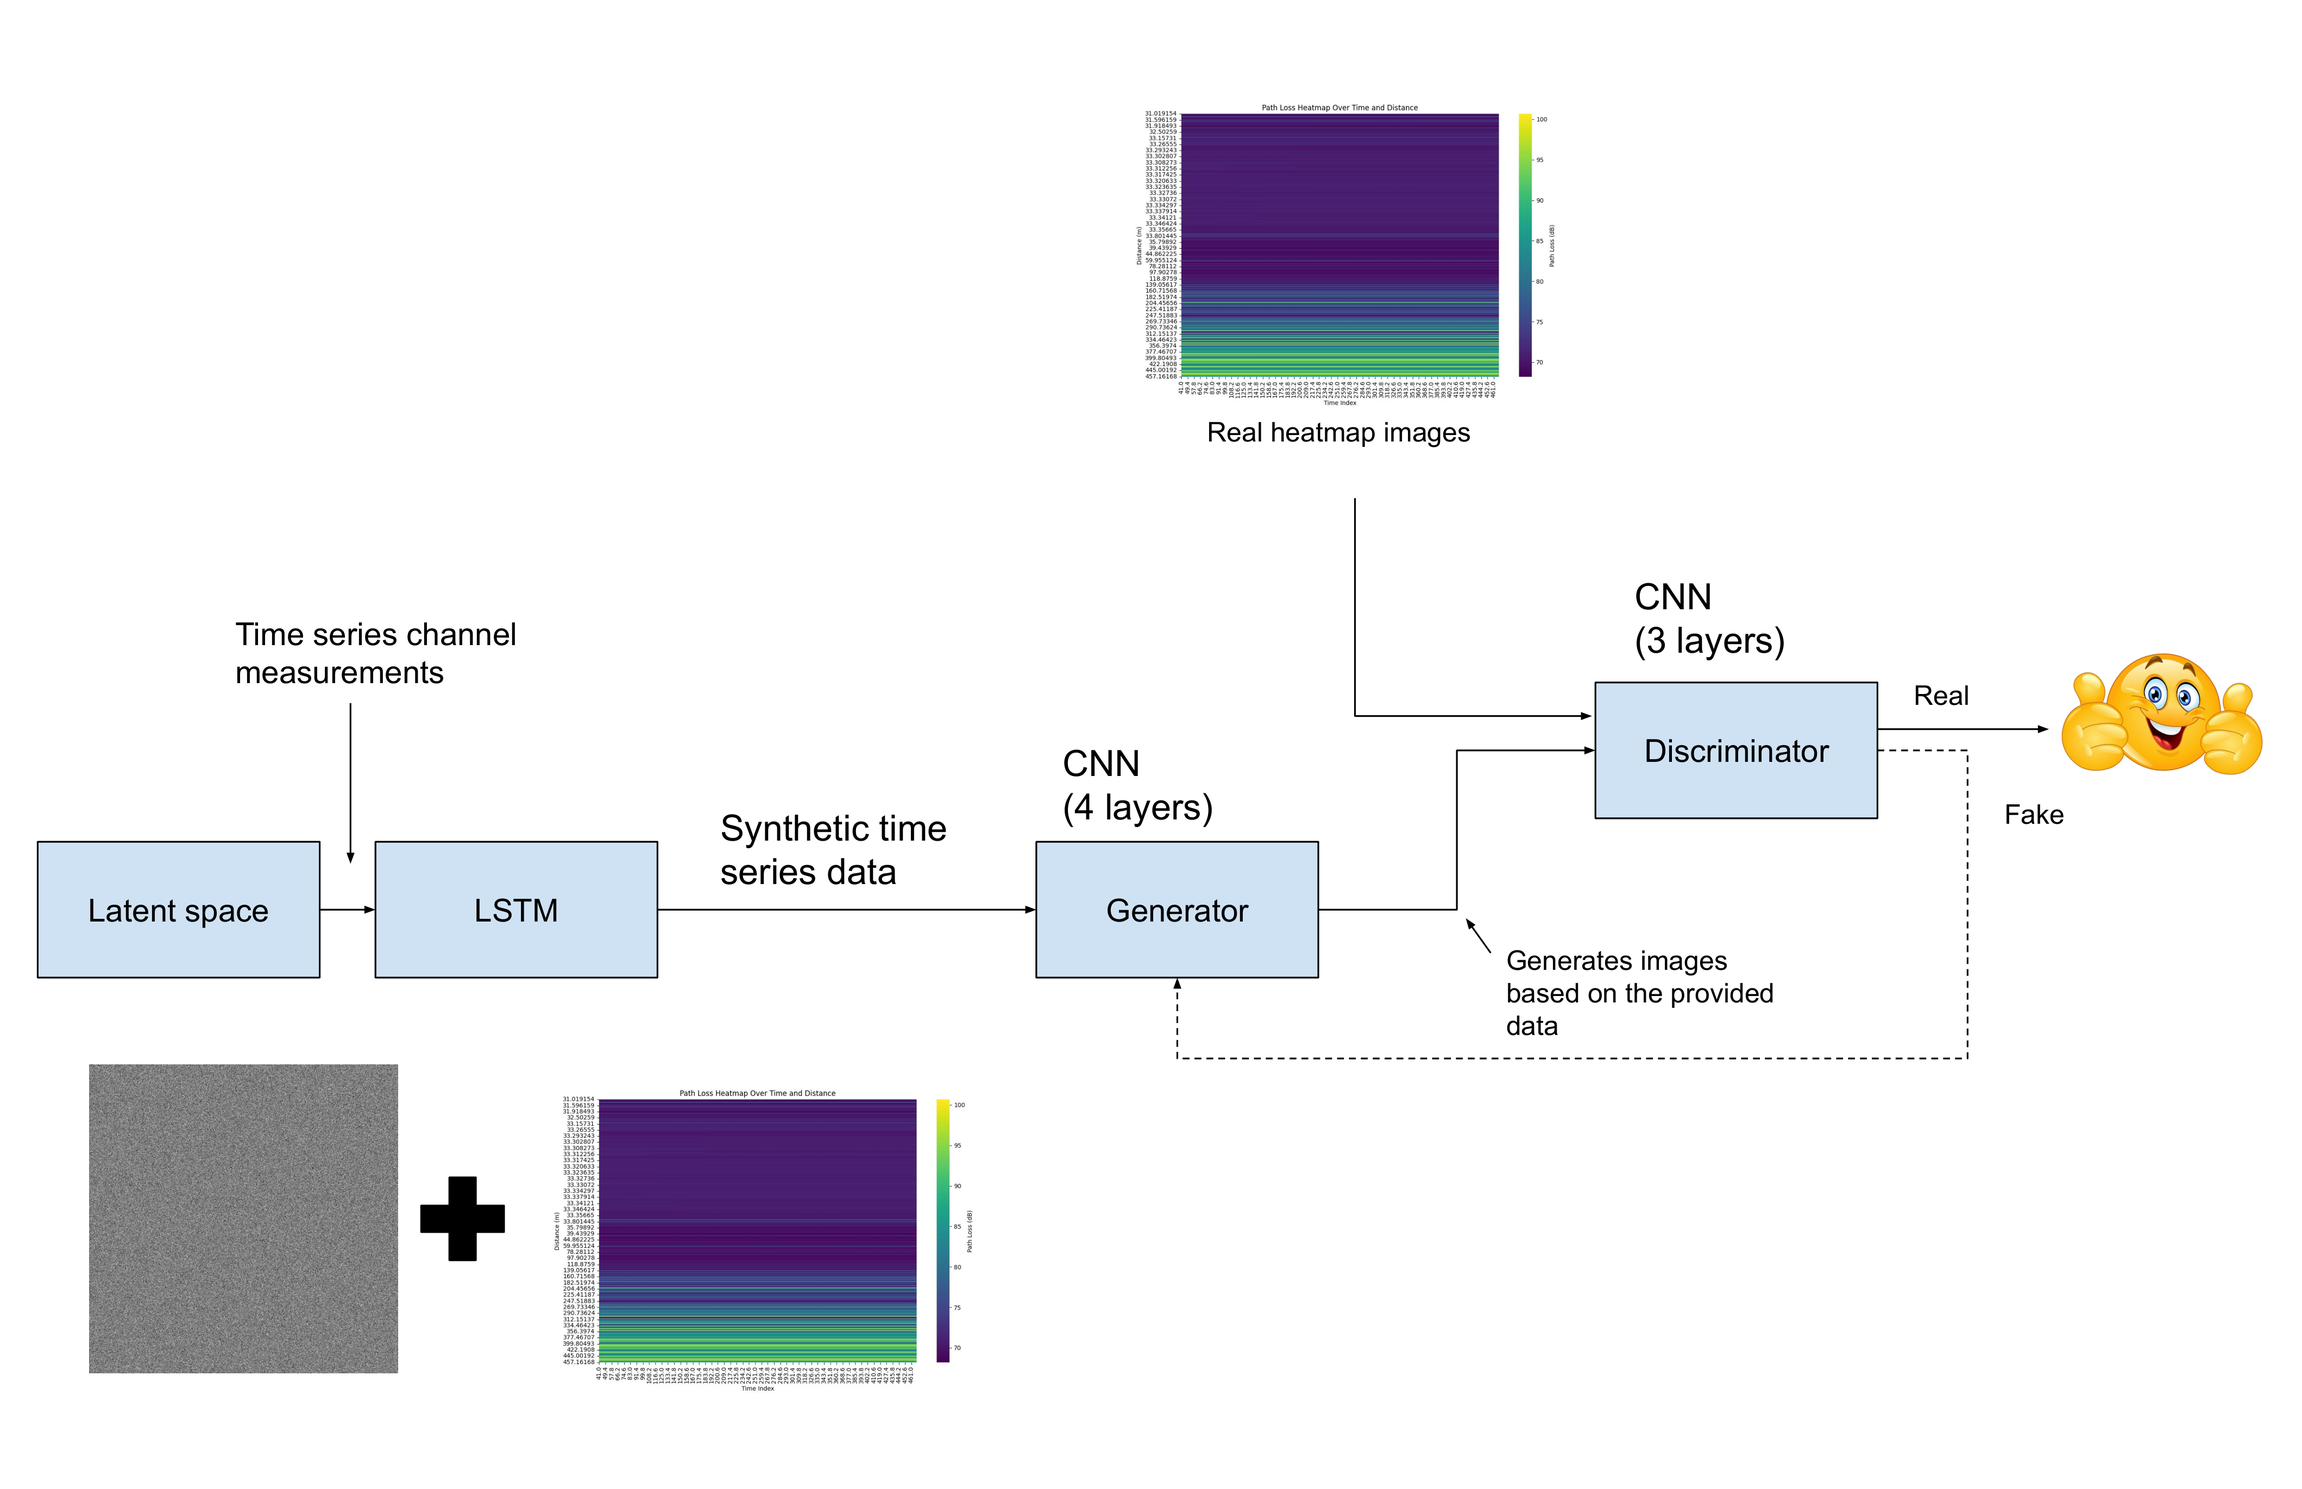
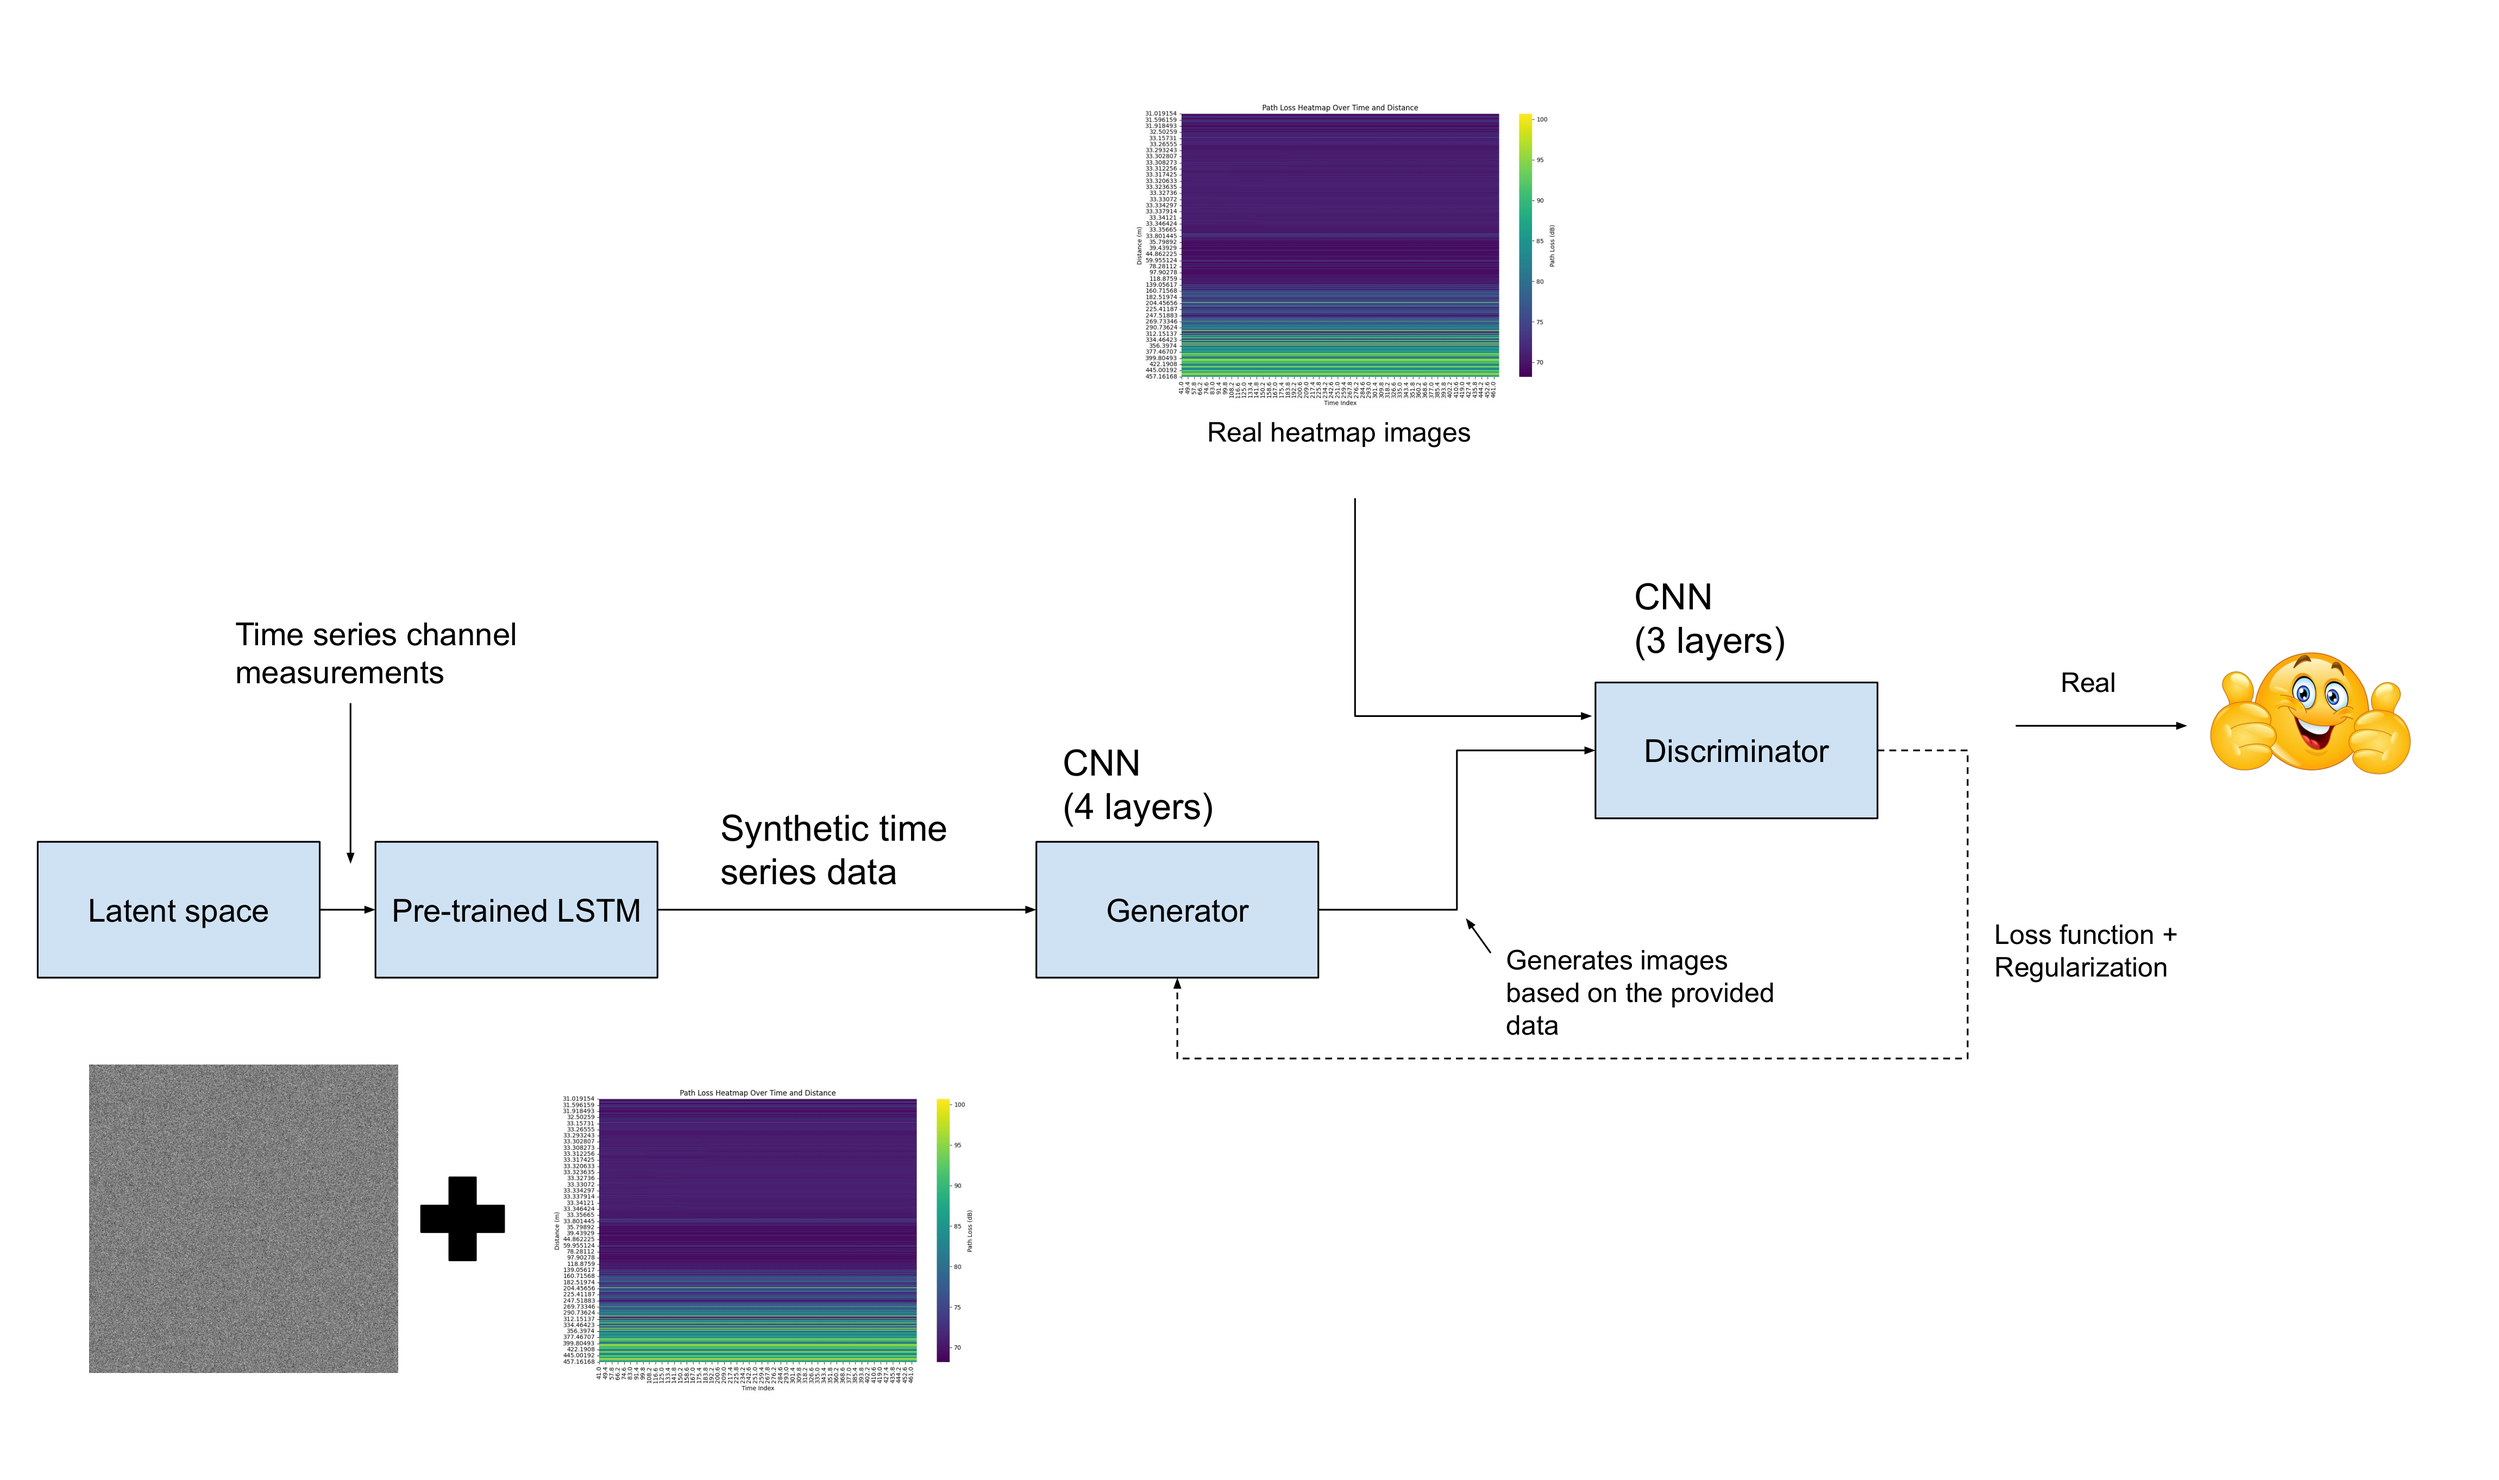
Updated README and diagram

diff --git a/README.md b/README.md
@@ -1,4 +1,4 @@
-### LTSM-GAN Channel Modeling for UAV-to-Ground CommunicationS
+### LTSM-GAN Channel Modeling for UAV-to-Ground Communications
 
 ---
 
@@ -10,25 +10,25 @@
 ### **Problem Statement**
 
 Accurate wireless channel measurements are essential for
-the AERPAW digital twin to realistically simulate UAV-
-to-ground communication in dynamic, mobility-driven en-
-vironments. However, collecting real-world channel mea-
-surements is often time-consuming, resource-intensive, and
+the AERPAW digital twin to realistically simulate UAV-to-ground
+communication in dynamic, mobility-driven environments.
+However, collecting real-world channel measurements is often
+time-consuming, resource-intensive, and
 challenging due to the need for extensive field testing under
 varying environmental conditions. While statistical models,
 such as Two-Ray Ground Reflection models, can simulate
 channel behavior, they lack the flexibility to capture the
 complex, environment-specific conditions of UAV operations.
 These models often fail to reflect the variability introduced
-by changing altitudes, rapid Doppler shifts, and intricate mul-
-tipath propagation effects, limiting their ability to represent
+by changing altitudes, rapid Doppler shifts, and intricate multipath
+propagation effects, limiting their ability to represent
 the true dynamics of UAV communication channels.
 
 ---
 
 ### **Proposed Solution**
 
-To address these limitations, we will employ a Generative Adversarial Network (GAN) to create high-quality synthetic channel measurements. By integrating a Long Short-Term Memory (LSTM) network within the GAN architecture, we can effectively model the temporal dependencies present in our collected time-series UAV-to-ground communication data. Leveraging metrics such as Signal-to-Noise Ratio (SNR), path loss, and the angles of arrival and departure, the GAN will learn patterns unique to UAV channels, producing realistic and context-aware synthetic data. This approach will enhance the fidelity of the digital twin, offering more granular insights into UAV-specific communication scenarios .
+To address these limitations, we will employ a Generative Adversarial Network (GAN) to create high-quality synthetic channel measurements. By integrating a Long Short-Term Memory (LSTM) network within the GAN architecture, we can effectively model the temporal dependencies present in our collected time-series UAV-to-ground communication data. Leveraging metrics such as Signal-to-Noise Ratio (SNR), path loss, and the angles of arrival and departure, the GAN will learn patterns unique to UAV channels, producing realistic and context-aware synthetic data. This approach will enhance the fidelity of the digital twin, offering more granular insights into UAV-specific communication scenarios.
 
 
 <img src="/diagram.png">
